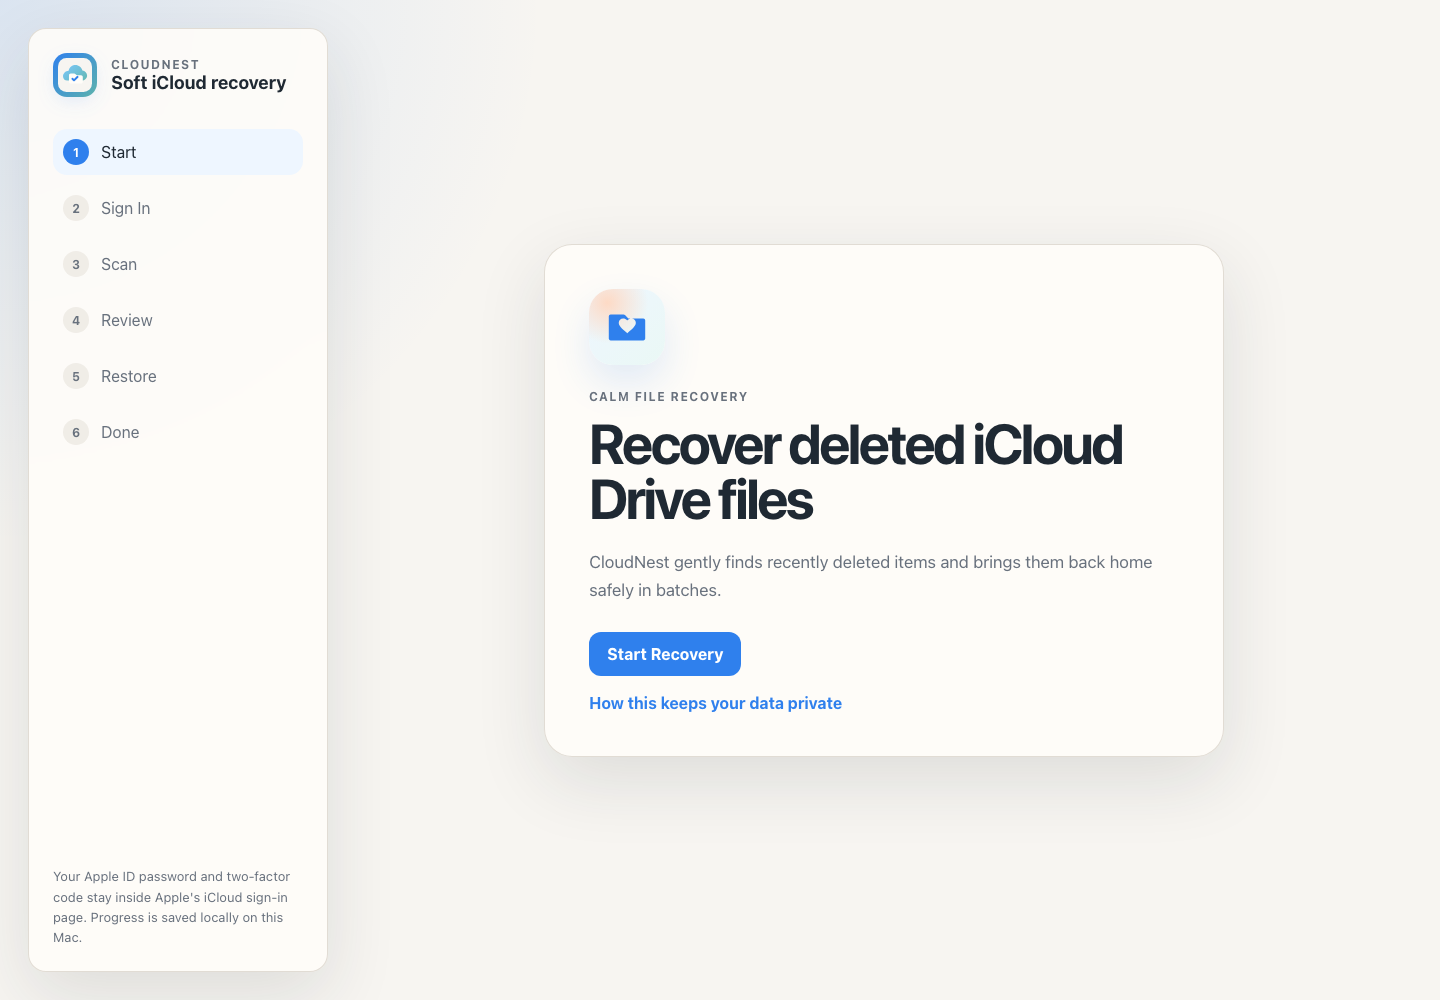
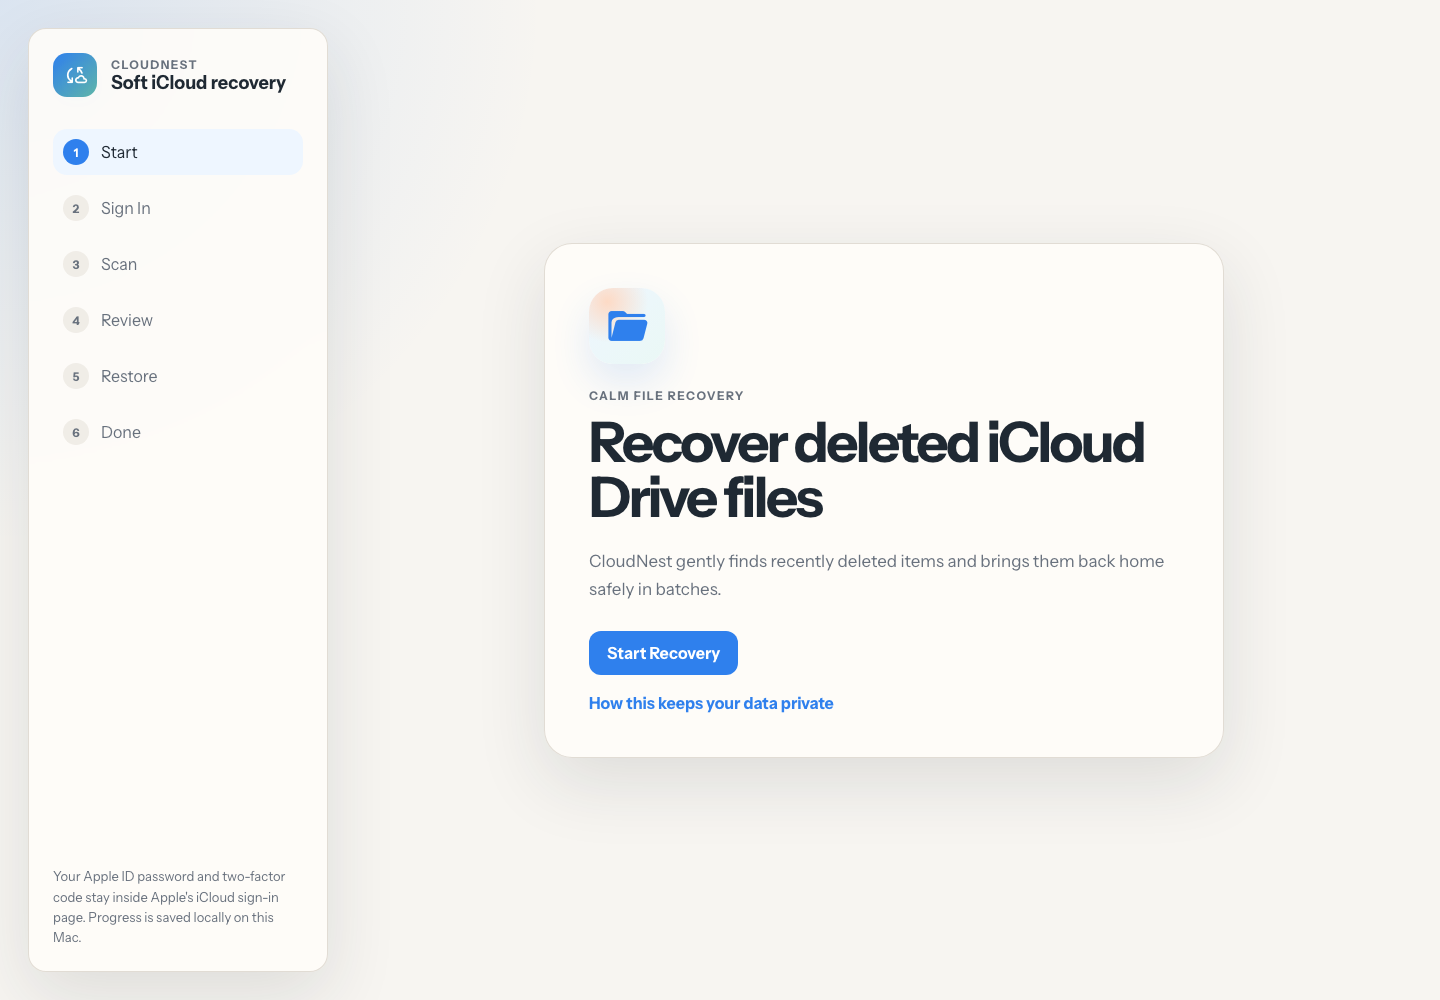
Use bundled Google fonts and Material Symbols

diff --git a/src/main.js b/src/main.js
@@ -1,21 +1,15 @@
 import { invoke } from "@tauri-apps/api/core";
 import { listen } from "@tauri-apps/api/event";
 import { openUrl } from "@tauri-apps/plugin-opener";
-import cloudNestIcon from "./assets/icons/cloud-nest.svg";
-import cloudSyncIcon from "./assets/icons/cloud-sync.svg";
-import folderHeartIcon from "./assets/icons/folder-heart.svg";
-import lockSoftIcon from "./assets/icons/lock-soft.svg";
-import sparkCheckIcon from "./assets/icons/spark-check.svg";
+import "@fontsource/instrument-sans/400.css";
+import "@fontsource/instrument-sans/500.css";
+import "@fontsource/instrument-sans/600.css";
+import "@fontsource/instrument-sans/700.css";
+import "@fontsource/ibm-plex-mono/400.css";
+import "material-symbols/rounded.css";
 
 const app = document.getElementById("app");
 const isTauri = "__TAURI_INTERNALS__" in window;
-const iconPaths = {
-  "cloud-nest": cloudNestIcon,
-  "cloud-sync": cloudSyncIcon,
-  "folder-heart": folderHeartIcon,
-  "lock-soft": lockSoftIcon,
-  "spark-check": sparkCheckIcon,
-};
 
 const state = {
   phase: "Welcome",
@@ -154,7 +148,7 @@ function render() {
     <section class="shell">
       <aside class="sidebar" aria-label="Recovery steps">
         <div class="brand">
-          <div class="brand-mark" aria-hidden="true">${icon("cloud-nest", "brand-icon")}</div>
+          <div class="brand-mark" aria-hidden="true">${icon("cloud_sync", "brand-icon")}</div>
           <div>
             <p class="eyebrow">CloudNest</p>
             <h1>Soft iCloud recovery</h1>
@@ -192,7 +186,7 @@ function renderPanel() {
 function welcomePanel() {
   return `
     <div class="hero-card">
-      ${heroIcon("folder-heart")}
+      ${heroIcon("folder_open")}
       <p class="eyebrow">Calm file recovery</p>
       <h2>Recover deleted iCloud Drive files</h2>
       <p class="lede">CloudNest gently finds recently deleted items and brings them back home safely in batches.</p>
@@ -210,7 +204,7 @@ function welcomePanel() {
 function signInPanel() {
   return `
     <div class="hero-card">
-      ${heroIcon("lock-soft")}
+      ${heroIcon("lock")}
       <p class="eyebrow">Step 1</p>
       <h2>Sign in with Apple</h2>
       <p class="lede">A Chrome window will open for iCloud. Apple handles your password, Keychain, and two-factor code. This app only watches for the restore session needed to continue.</p>
@@ -227,7 +221,7 @@ function scanPanel() {
   const scanning = state.phase === "Scanning" || state.busy;
   return `
     <div class="hero-card">
-      ${heroIcon("cloud-sync")}
+      ${heroIcon("cloud_sync")}
       <p class="eyebrow">Step 2</p>
       <h2>Finding deleted items</h2>
       <p class="lede">Scanning recently deleted iCloud Drive files and folders. Large accounts can take a few minutes.</p>
@@ -248,7 +242,7 @@ function scanPanel() {
 function reviewPanel() {
   return `
     <div class="hero-card">
-      ${heroIcon("folder-heart")}
+      ${heroIcon("restore_from_trash")}
       <p class="eyebrow">Step 3</p>
       <h2>${formatNumber(state.deletedCount)} items ready to restore</h2>
       <p class="lede">They will be restored to iCloud Drive using Apple's own recovery endpoint.</p>
@@ -270,7 +264,7 @@ function restorePanel() {
 
   return `
     <div class="hero-card wide">
-      ${heroIcon("cloud-sync")}
+      ${heroIcon("cloud_sync")}
       <p class="eyebrow">Step 4</p>
       <h2>${paused ? "Restore paused" : "Restoring your files"}</h2>
       ${statusMessage()}
@@ -300,7 +294,7 @@ function donePanel() {
   const partial = state.stats.failed > 0;
   return `
     <div class="hero-card">
-      ${heroIcon(partial ? "folder-heart" : "spark-check")}
+      ${heroIcon(partial ? "restore_from_trash" : "check_circle")}
       <p class="eyebrow">${partial ? "Partial success" : "Complete"}</p>
       <h2>${partial ? "Mostly recovered" : "Recovery complete"}</h2>
       <p class="lede">${escapeHtml(state.message)}</p>
@@ -320,7 +314,7 @@ function donePanel() {
 function errorPanel() {
   return `
     <div class="hero-card">
-      ${heroIcon("folder-heart")}
+      ${heroIcon("error")}
       <p class="eyebrow danger">Needs attention</p>
       <h2>Recovery needs your help</h2>
       ${statusMessage("error")}
@@ -367,7 +361,7 @@ function heroIcon(name) {
 }
 
 function icon(name, className = "") {
-  return `<img class="${className}" src="${iconPaths[name]}" alt="" aria-hidden="true" />`;
+  return `<span class="material-symbols-rounded ${className}" aria-hidden="true">${name}</span>`;
 }
 
 function bindActions() {

diff --git a/src/styles.css b/src/styles.css
@@ -1,5 +1,6 @@
 :root {
-  --font-sans: "Inter", -apple-system, BlinkMacSystemFont, "SF Pro Text", sans-serif;
+  --font-sans: "Instrument Sans", -apple-system, BlinkMacSystemFont, "SF Pro Text", sans-serif;
+  --font-mono: "IBM Plex Mono", "SF Mono", Menlo, Consolas, monospace;
   --color-canvas: #f7f5f1;
   --color-surface: #fffdf9;
   --color-surface-muted: #f0ede7;
@@ -87,8 +88,8 @@ button {
 }
 
 .brand-icon {
-  width: 34px;
-  height: 34px;
+  font-size: 28px;
+  line-height: 1;
   filter: drop-shadow(0 6px 10px rgba(47, 128, 237, 0.18));
 }
 
@@ -187,8 +188,27 @@ button {
 }
 
 .hero-icon img {
-  width: 46px;
-  height: 46px;
+  display: none;
+}
+
+.hero-icon .material-symbols-rounded {
+  font-size: 44px;
+  font-variation-settings:
+    "FILL" 1,
+    "wght" 500,
+    "GRAD" 0,
+    "opsz" 48;
+}
+
+.material-symbols-rounded {
+  display: inline-flex;
+  align-items: center;
+  justify-content: center;
+  font-variation-settings:
+    "FILL" 0,
+    "wght" 500,
+    "GRAD" 0,
+    "opsz" 48;
 }
 
 .hero-card.wide {
@@ -356,7 +376,7 @@ button {
   border-radius: 14px;
   color: var(--color-text-muted);
   background: #fbf8f3;
-  font-family: "SF Mono", Menlo, Consolas, monospace;
+  font-family: var(--font-mono);
   font-size: 12px;
   line-height: 1.55;
   list-style: none;

diff --git a/docs/UX_STANDARD.md b/docs/UX_STANDARD.md
@@ -140,8 +140,8 @@ Messages use plain language and a clear next step.
 - Soft blue/teal action color.
 - Restrained red for blocking failures only.
 - Rounded cards, spacious rhythm, no dense tables on the happy path.
-- Font: Google `Inter` or `Instrument Sans`, bundled locally before release.
-- Icons: Google Material Symbols as local SVGs before release.
+- Font: Google `Instrument Sans`, bundled locally through the app build.
+- Icons: Google `Material Symbols Rounded`, bundled locally through the app build.
 
 ## Privacy Copy
 

diff --git a/README.md b/README.md
@@ -6,6 +6,8 @@ It is built with Tauri 2, a vanilla Vite frontend, and a Rust-native restore cor
 
 ![CloudNest welcome screen](docs/assets/cloudnest-welcome.png)
 
+The UI uses bundled Google font files: `Instrument Sans` for the product interface and `IBM Plex Mono` for technical logs. Icons use Google's `Material Symbols Rounded` font locally, so they render inside the packaged app without loading assets from a CDN.
+
 ## What It Does
 
 - Opens Chrome for Apple-managed iCloud sign-in.